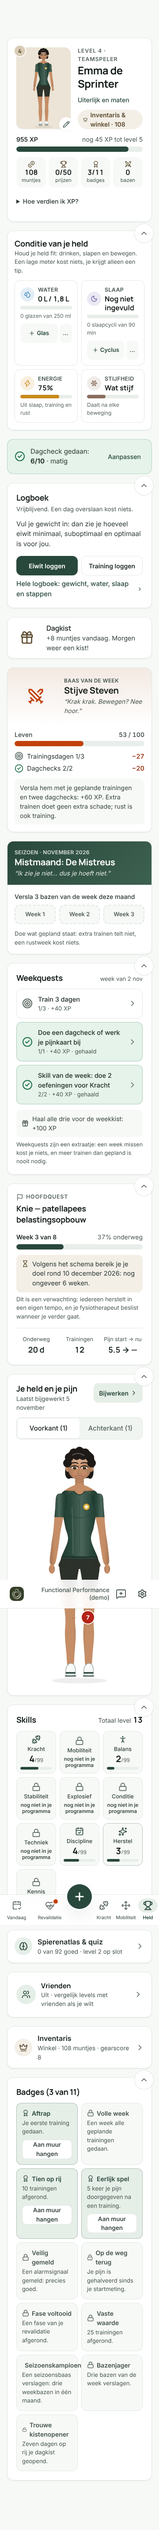
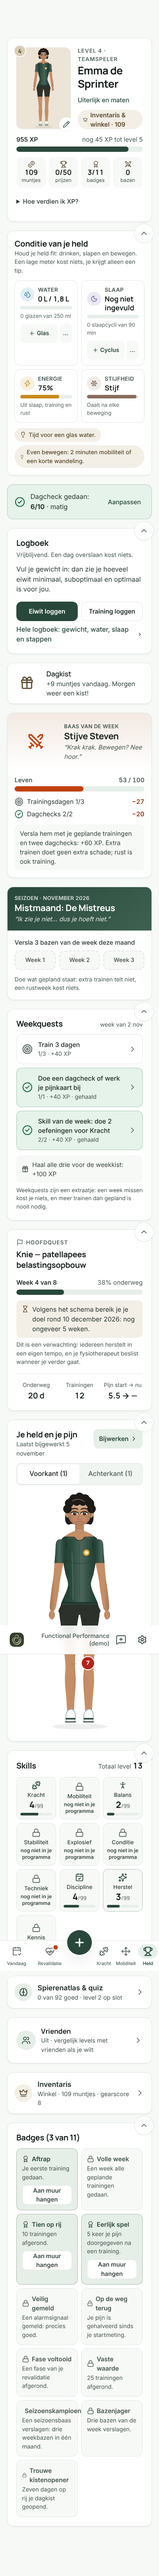
Pain map uses the photographic hero: points on the measured body, mirrored silhouette for the back
The front shows the patient's own hero photo with each pain area on the
measured pose landmarks (shoulders, elbows, wrists, hips, knees, ankles);
the back shows the photo's silhouette mirrored, so left and right match a
view from behind. Falls back to the drawing when a photo or its
measurements are missing. Measurements load on demand (shared with the
fitted gear).

Claude-Session: https://claude.ai/code/session_01LX8STJNNDwUxbGDdeQr5p6

diff --git a/web/src/components/hero/BodyMap.tsx b/web/src/components/hero/BodyMap.tsx
@@ -1,6 +1,9 @@
-import { useState } from 'react';
+import { useEffect, useState } from 'react';
 import { BODY_AREAS, DEFAULT_LOOK, type Side } from '@shared/hero';
 import { HumanFigure, figureGeometry, type FigureLook } from './HumanFigure';
+import { heroPhotoSources } from './HeroPhoto';
+import type { PhotoFit } from './photoFit';
+import { photoPainPoints } from './photoPain';
 import { useI18n } from '@/lib/i18n';
 import { cn } from '@/lib/cn';
 import { Segmented } from '@/components/ui';
@@ -25,10 +28,35 @@ export function BodyMap({ entries, onChange, compare, className, look }: { entri
   const nl = locale === 'nl';
   const [side, setSide] = useState<Side>('front');
   const [selected, setSelected] = useState<string | null>(null);
-  // The patient's own hero, with the points placed on their body type.
+  // The patient's own hero: the photo (front) and its silhouette (back), with the points on the
+  // measured body. Falls back to the drawn figure when the photo or its measurements are missing.
   const figure: FigureLook = look ?? DEFAULT_LOOK;
+  const sources = heroPhotoSources(figure);
+  const sourcesKey = sources.join('|');
+  const [photo, setPhoto] = useState<{ src: string; fit: PhotoFit } | 'none' | null>(null);
+  useEffect(() => {
+    let live = true;
+    setPhoto(null);
+    import('./photoFit')
+      .then((m) => {
+        if (!live) return;
+        const src = sources.find((x) => m.photoFit(x));
+        setPhoto(src ? { src, fit: m.photoFit(src)! } : 'none');
+      })
+      .catch(() => live && setPhoto('none'));
+    return () => {
+      live = false;
+    };
+  }, [sourcesKey]); // eslint-disable-line react-hooks/exhaustive-deps
+  const usePhoto = photo !== null && photo !== 'none';
+  const photoPts = usePhoto ? photoPainPoints(photo.fit) : null;
   const pts = figureGeometry(figure).points;
-  const areas = BODY_AREAS.filter((a) => a.side === side).map((a) => ({ ...a, x: pts[a.key]?.[0] ?? a.x, y: pts[a.key]?.[1] ?? a.y }));
+  // Positions as fractions of the picture (photo 3:4, drawing 200:420).
+  const areas = BODY_AREAS.filter((a) => a.side === side).map((a) =>
+    photoPts && photoPts[a.key]
+      ? { ...a, fx: photoPts[a.key][0], fy: photoPts[a.key][1] }
+      : { ...a, fx: (pts[a.key]?.[0] ?? a.x) / 200, fy: (pts[a.key]?.[1] ?? a.y) / 420 },
+  );
   const sel = BODY_AREAS.find((a) => a.key === selected);
   const count = (s: Side) => BODY_AREAS.filter((a) => a.side === s && entries[a.key] !== undefined).length;
 
@@ -46,8 +74,24 @@ export function BodyMap({ entries, onChange, compare, className, look }: { entri
           ]}
         />
       </div>
-      <div className="relative mx-auto aspect-[200/420] w-full max-w-[260px]">
-        <HumanFigure look={figure} side={side} className="absolute inset-0 h-full w-full" />
+      <div className={cn('relative mx-auto w-full', usePhoto ? 'aspect-[3/4] max-w-[300px] overflow-hidden rounded-2xl bg-[#ece4d6]' : 'aspect-[200/420] max-w-[260px]')}>
+        {photo === null ? (
+          <span className="absolute inset-0 animate-pulse rounded-2xl bg-ink-100" aria-hidden />
+        ) : usePhoto ? (
+          side === 'front' ? (
+            <img src={`/api/hero-assets/${photo.src}`} alt="" aria-hidden className="absolute inset-0 h-full w-full object-cover" onError={() => setPhoto('none')} />
+          ) : (
+            // No photo from behind: the person's own silhouette, mirrored (their left on the left).
+            <svg viewBox="0 0 1000 1333.33" className="absolute inset-0 h-full w-full" aria-hidden>
+              <g transform="translate(1000,0) scale(-1,1)">
+                <path d={photo.fit.silhouette} fill="#d6c4ab" stroke="#a88f72" strokeWidth={5} strokeLinejoin="round" />
+              </g>
+            </svg>
+          )
+        ) : (
+          <HumanFigure look={figure} side={side} className="absolute inset-0 h-full w-full" />
+        )}
+        {usePhoto && <span className="absolute left-2 top-2 rounded-full bg-white/85 px-2 py-0.5 text-[11.5px] font-semibold text-ink-700" aria-hidden>{side === 'front' ? t('Voorkant', 'Front') : t('Achterkant', 'Back')}</span>}
         <ul className="absolute inset-0" aria-label={side === 'front' ? t('Voorkant van het lichaam', 'Front of the body') : t('Achterkant van het lichaam', 'Back of the body')}>
           {areas.map((a) => {
             const v = entries[a.key];
@@ -59,7 +103,7 @@ export function BodyMap({ entries, onChange, compare, className, look }: { entri
               <span className="h-4 w-4 rounded-full border-2 border-ink-400 bg-white/80" />
             );
             return (
-              <li key={a.key} className="absolute -translate-x-1/2 -translate-y-1/2" style={{ left: `${(a.x / 200) * 100}%`, top: `${(a.y / 420) * 100}%` }}>
+              <li key={a.key} className="absolute -translate-x-1/2 -translate-y-1/2" style={{ left: `${a.fx * 100}%`, top: `${a.fy * 100}%` }}>
                 {onChange ? (
                   <button
                     type="button"

diff --git a/web/src/components/hero/photoPain.ts b/web/src/components/hero/photoPain.ts
@@ -1,0 +1,48 @@
+import type { PhotoFit } from './photoFit';
+
+const mix = (a: number[], b: number[], t: number) => [a[0] + (b[0] - a[0]) * t, a[1] + (b[1] - a[1]) * t];
+
+/**
+ * Where each pain area sits on the hero photo (0–1 of the 3:4 image), from the measured pose
+ * landmarks (MediaPipe numbering: 11/12 shoulders, 13/14 elbows, 15/16 wrists, 23/24 hips,
+ * 25/26 knees, 27/28 ankles; odd = the person's left, which is on the viewer's right in a front
+ * photo). The back view is the photo's silhouette mirrored, so the person's left is on the left.
+ */
+export function photoPainPoints(fit: PhotoFit): Record<string, [number, number]> {
+  const p = fit.points;
+  const shoulders = mix(p[11], p[12], 0.5);
+  const hips = mix(p[23], p[24], 0.5);
+  const ears = mix(p[7], p[8], 0.5);
+  const mirror = (q: number[], dy = 0): [number, number] => [1 - q[0], q[1] + dy];
+  const at = (q: number[]): [number, number] => [q[0], q[1]];
+  return {
+    // Front
+    head: [p[0][0], (fit.headTop + p[0][1]) / 2],
+    shoulder_r: at(p[12]),
+    shoulder_l: at(p[11]),
+    chest: at(mix(shoulders, hips, 0.28)),
+    elbow_r: at(p[14]),
+    elbow_l: at(p[13]),
+    abdomen: at(mix(shoulders, hips, 0.72)),
+    wrist_r: at(p[16]),
+    wrist_l: at(p[15]),
+    hip_r: at(p[24]),
+    hip_l: at(p[23]),
+    thigh_r: at(mix(p[24], p[26], 0.5)),
+    thigh_l: at(mix(p[23], p[25], 0.5)),
+    knee_r: at(p[26]),
+    knee_l: at(p[25]),
+    ankle_r: at(p[28]),
+    ankle_l: at(p[27]),
+    // Back (mirrored)
+    neck: mirror(mix(shoulders, ears, 0.45)),
+    upper_back: mirror(mix(shoulders, hips, 0.25)),
+    lower_back: mirror(mix(shoulders, hips, 0.82)),
+    buttock_l: mirror(p[23], 0.035),
+    buttock_r: mirror(p[24], 0.035),
+    hamstring_l: mirror(mix(p[23], p[25], 0.55)),
+    hamstring_r: mirror(mix(p[24], p[26], 0.55)),
+    calf_l: mirror(mix(p[25], p[27], 0.38)),
+    calf_r: mirror(mix(p[26], p[28], 0.38)),
+  };
+}

diff --git a/web/src/components/hero/photoPain.test.ts b/web/src/components/hero/photoPain.test.ts
@@ -1,0 +1,30 @@
+import { describe, it, expect } from 'vitest';
+import { BODY_AREAS } from '@shared/hero';
+import { photoFitProfiles } from './photoFit';
+import { photoPainPoints } from './photoPain';
+
+describe('pain areas on the hero photo', () => {
+  const fits = Object.entries(photoFitProfiles).filter(([k]) => !k.includes('__')).slice(0, 40);
+  it('places every area inside the picture for every measured photo', () => {
+    for (const [key, fit] of fits) {
+      const pts = photoPainPoints(fit);
+      for (const a of BODY_AREAS) {
+        const p = pts[a.key];
+        expect(p, `${key} ${a.key}`).toBeTruthy();
+        expect(p[0] > 0 && p[0] < 1 && p[1] > 0 && p[1] < 1, `${key} ${a.key}`).toBe(true);
+      }
+    }
+  });
+  it('front: the person\'s right is on the viewer\'s left; back: their left is on the left', () => {
+    for (const [key, fit] of fits) {
+      const p = photoPainPoints(fit);
+      expect(p.knee_r[0], key).toBeLessThan(p.knee_l[0]);
+      expect(p.shoulder_r[0], key).toBeLessThan(p.shoulder_l[0]);
+      expect(p.calf_l[0], key).toBeLessThan(p.calf_r[0]);
+      // Top to bottom on the body.
+      expect(p.head[1]).toBeLessThan(p.chest[1]);
+      expect(p.hip_l[1]).toBeLessThan(p.knee_l[1]);
+      expect(p.knee_l[1]).toBeLessThan(p.ankle_l[1]);
+    }
+  });
+});
